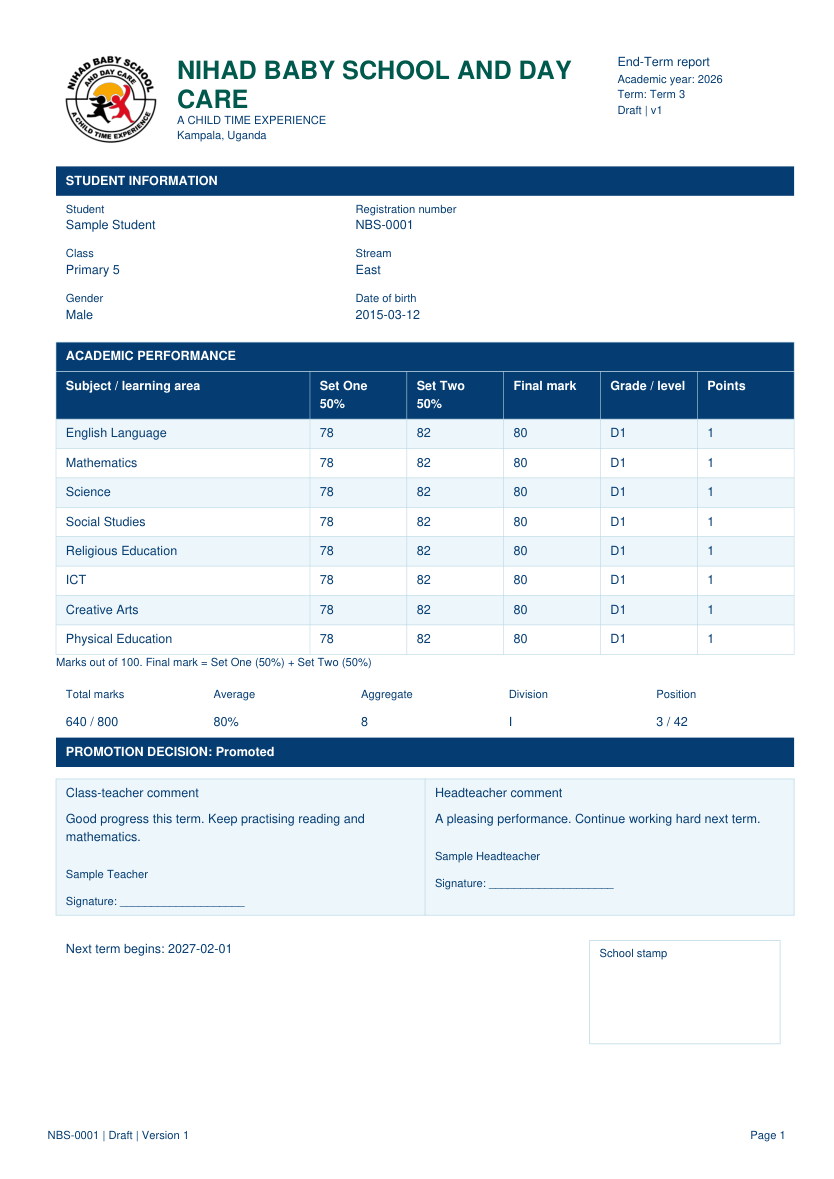
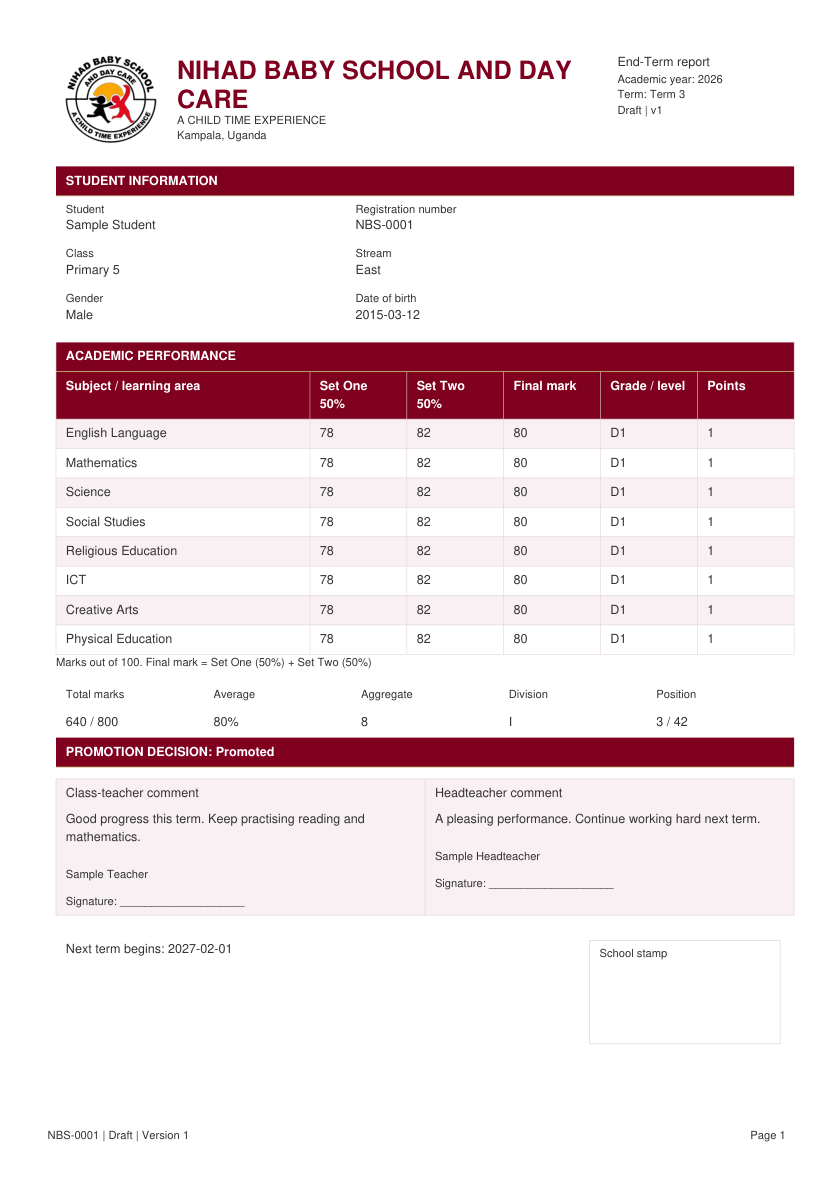
feat: Update End-Term report styling and PDF attributes; apply new color palette

diff --git a/static/css/app.css b/static/css/app.css
@@ -309,46 +309,46 @@ main:focus { outline: none; }
 }
 
 /* A4 End-Term stationery, shared by screen and browser print. */
-.endterm-report { max-width: 210mm; margin: 0 auto; padding: 8mm; background: #fff; color: #173149; border: 1px solid #cddfe4; border-radius: 10px; font-size: .9rem; }
-.endterm-brand { display: grid; grid-template-columns: 24mm minmax(0, 1fr) 46mm; align-items: center; gap: 4mm; border-bottom: 3px solid #176149; padding-bottom: 5mm; }
+.endterm-report { max-width: 210mm; margin: 0 auto; padding: 8mm; background: #fff; color: #333333; border: 1px solid #e4d4d9; border-radius: 10px; font-size: .9rem; }
+.endterm-brand { display: grid; grid-template-columns: 24mm minmax(0, 1fr) 46mm; align-items: center; gap: 4mm; border-bottom: 3px solid #B89B5E; padding-bottom: 5mm; }
 .endterm-logo { width: 100%; height: 25mm; object-fit: contain; }
 .endterm-school { text-align: center; }
-.endterm-school h2 { font-family: Georgia, serif; color: #12543f; font-size: 1.55rem; line-height: 1.15; margin: 0; }
+.endterm-school h2 { font-family: Georgia, serif; color: #800020; font-size: 1.55rem; line-height: 1.15; margin: 0; }
 .endterm-school p { margin: .35rem 0; font-size: .75rem; overflow-wrap: anywhere; }
-.endterm-motto { color: #173149; font-style: italic; }
-.endterm-period { background: #eff7f6; border: 1px solid #cddfe4; border-radius: 5px; overflow: hidden; font-size: .72rem; }
-.endterm-period h3 { background: #12543f; color: #fff; padding: .55rem; margin: 0; text-transform: uppercase; font-size: .8rem; }
+.endterm-motto { color: #333333; font-style: italic; }
+.endterm-period { background: #F8F1F3; border: 1px solid #e4d4d9; border-radius: 5px; overflow: hidden; font-size: .72rem; }
+.endterm-period h3 { background: #800020; color: #fff; padding: .55rem; margin: 0; text-transform: uppercase; font-size: .8rem; }
 .endterm-period p { margin: .45rem .55rem; }
-.endterm-student-panel, .endterm-academics { border: 1px solid #c2dce7; border-radius: 6px; overflow: hidden; margin-top: 4mm; }
-.endterm-section-heading { padding: .5rem .7rem; background: #12543f; color: #fff; font-size: .95rem; margin: 0; text-transform: uppercase; }
-.endterm-student-panel .endterm-section-heading { background: #eaf5fa; color: #193c5c; }
+.endterm-student-panel, .endterm-academics { border: 1px solid #e4d4d9; border-radius: 6px; overflow: hidden; margin-top: 4mm; }
+.endterm-section-heading { padding: .5rem .7rem; background: #800020; color: #fff; font-size: .95rem; margin: 0; text-transform: uppercase; }
+.endterm-student-panel .endterm-section-heading { background: #F8F1F3; color: #800020; }
 .endterm-student-content { display: flex; align-items: center; gap: 4mm; padding: 3mm; }
 .endterm-photo { width: 25mm; height: 30mm; border-radius: 4px; object-fit: cover; }
 .endterm-student-grid { flex: 1; display: grid; grid-template-columns: repeat(2, minmax(0, 1fr)); gap: 3mm; margin: 0; }
-.endterm-student-grid dt { font-size: .7rem; color: #52635e; }
+.endterm-student-grid dt { font-size: .7rem; color: #666666; }
 .endterm-student-grid dd { margin: .1rem 0 0; font-weight: 600; overflow-wrap: anywhere; }
 .endterm-marks { width: 100%; margin: 0; border-collapse: collapse; font-size: .8rem; }
 .endterm-marks caption { font-size: .7rem; padding: 2mm; }
-.endterm-marks th, .endterm-marks td { border: 1px solid #d9e8ef; padding: 2.2mm; text-align: center; }
+.endterm-marks th, .endterm-marks td { border: 1px solid #e4d4d9; padding: 2.2mm; text-align: center; }
 .endterm-marks th:first-child { text-align: left; }
-.endterm-marks thead th { background: #eaf5fa; }
+.endterm-marks thead th { background: #800020; color: #fff; }
 .endterm-marks thead small { display: block; }
-.endterm-marks tbody tr:nth-child(even) { background: #f5fafc; }
-.endterm-grade { background: #e8f4ec; border-radius: 3px; padding: .2rem .4rem; color: #12543f; font-weight: 700; }
-.endterm-calculation { text-align: center; font-size: .75rem; padding: 2mm; margin: 0; background: #edf7fa; }
-.endterm-summary { display: flex; flex-wrap: wrap; margin: 2mm; border: 1px solid #c2dce7; border-radius: 4px; }
-.endterm-summary > div { flex: 1; min-width: 24mm; padding: 3mm 2mm; text-align: center; background: #f1f8fb; }
+.endterm-marks tbody tr:nth-child(even) { background: #F8F1F3; }
+.endterm-grade { background: #F8F1F3; border-radius: 3px; padding: .2rem .4rem; color: #800020; font-weight: 700; }
+.endterm-calculation { text-align: center; font-size: .75rem; padding: 2mm; margin: 0; background: #F8F1F3; }
+.endterm-summary { display: flex; flex-wrap: wrap; margin: 2mm; border: 1px solid #e4d4d9; border-radius: 4px; }
+.endterm-summary > div { flex: 1; min-width: 24mm; padding: 3mm 2mm; text-align: center; background: #F8F1F3; }
 .endterm-summary dt { font-size: .65rem; text-transform: uppercase; }
 .endterm-summary dd { margin: 1mm 0 0; font-size: 1.15rem; font-weight: 700; }
-.endterm-decision { margin-top: 3mm; background: #12543f; color: #fff; padding: 3mm; text-align: center; border-radius: 4px; text-transform: uppercase; }
+.endterm-decision { margin-top: 3mm; background: #800020; color: #fff; padding: 3mm; text-align: center; border-radius: 4px; text-transform: uppercase; }
 .endterm-comments { display: grid; grid-template-columns: repeat(2, minmax(0, 1fr)); gap: 4mm; margin-top: 4mm; }
-.endterm-comments > div { border: 1px solid #c2dce7; border-radius: 5px; overflow-wrap: anywhere; }
-.endterm-comments h3 { background: #193c5c; color: #fff; font-size: .8rem; padding: 3mm; margin: 0; }
+.endterm-comments > div { border: 1px solid #e4d4d9; border-radius: 5px; overflow-wrap: anywhere; }
+.endterm-comments h3 { background: #800020; color: #fff; font-size: .8rem; padding: 3mm; margin: 0; }
 .endterm-comments p { padding: 0 3mm; font-size: .8rem; }
 .endterm-signoff { margin-top: 5mm; }
 .endterm-signoff p { font-size: .7rem; }
 .endterm-footer { display: flex; justify-content: space-between; align-items: center; gap: 4mm; margin-top: 4mm; font-size: .75rem; }
-.endterm-stamp { border: 1px dashed #91a5b1; color: #52635e; padding: 8mm 5mm; min-width: 50mm; text-align: center; text-transform: uppercase; letter-spacing: 1px; }
+.endterm-stamp { border: 1px dashed #B89B5E; color: #666666; padding: 8mm 5mm; min-width: 50mm; text-align: center; text-transform: uppercase; letter-spacing: 1px; }
 @media screen and (max-width: 720px) {
   .endterm-report { padding: 4mm; }
   .endterm-brand { grid-template-columns: 20mm minmax(0, 1fr); }

diff --git a/templates/base.html b/templates/base.html
@@ -10,7 +10,7 @@
   <title>{% block title %}Workspace{% endblock %} · {{ school_display_name }}</title>
   <link rel="icon" href="{% static 'img/nihad-logo.png' %}" type="image/png">
   <link rel="stylesheet" href="{% static 'vendor/oat/oat.min.css' %}">
-  <link rel="stylesheet" href="{% static 'css/app.css' %}?v=endterm-report-1">
+  <link rel="stylesheet" href="{% static 'css/app.css' %}?v=endterm-burgundy-1">
   <script src="{% static 'vendor/oat/oat.min.js' %}" defer></script>
   <script src="{% static 'vendor/htmx/htmx.min.js' %}" defer></script>
   <script src="{% static 'js/app.js' %}?v=login-logo-6" defer></script>

diff --git a/apps/reports/endterm_pdf.py b/apps/reports/endterm_pdf.py
@@ -15,10 +15,10 @@ def endterm_pdf(report):
     data = report.snapshot
     output = BytesIO()
     width = 186 * mm
-    green, navy, pale, line = [colors.HexColor(c) for c in ('#005a4e', '#063e72', '#edf7fc', '#b9d9e7')]
-    body = ParagraphStyle('Report', fontName='Helvetica', fontSize=9, leading=13, textColor=navy)
+    burgundy, charcoal, pale, line, gold = [colors.HexColor(c) for c in ('#800020', '#333333', '#F8F1F3', '#e4d4d9', '#B89B5E')]
+    body = ParagraphStyle('Report', fontName='Helvetica', fontSize=9, leading=13, textColor=charcoal)
     small = ParagraphStyle('Small', parent=body, fontSize=8, leading=11)
-    title = ParagraphStyle('School', parent=body, fontName='Helvetica-Bold', fontSize=18, leading=21, textColor=green)
+    title = ParagraphStyle('School', parent=body, fontName='Helvetica-Bold', fontSize=18, leading=21, textColor=burgundy)
     heading = ParagraphStyle('Heading', parent=body, fontName='Helvetica-Bold', textColor=colors.white)
 
     def p(value, style=body):
@@ -30,14 +30,14 @@ def endterm_pdf(report):
                  ('RIGHTPADDING', (0, 0), (-1, -1), 7), ('TOPPADDING', (0, 0), (-1, -1), 4),
                  ('BOTTOMPADDING', (0, 0), (-1, -1), 4)]
         if header:
-            rules += [('BACKGROUND', (0, 0), (-1, 0), navy), ('GRID', (0, 0), (-1, -1), .4, line),
+            rules += [('BACKGROUND', (0, 0), (-1, 0), burgundy), ('GRID', (0, 0), (-1, -1), .4, line),
                       ('ROWBACKGROUNDS', (0, 1), (-1, -1), [colors.white, pale])]
         result.setStyle(TableStyle(rules))
         return result
 
     def section(text):
         result = table([[p(text, heading)]], [width])
-        result.setStyle(TableStyle([('BACKGROUND', (0, 0), (-1, -1), navy)]))
+        result.setStyle(TableStyle([('BACKGROUND', (0, 0), (-1, -1), burgundy), ('LINEBELOW', (0,0),(-1,-1),.6,gold)]))
         result.keepWithNext = True
         return result
 
@@ -77,7 +77,7 @@ def endterm_pdf(report):
         values += [row.get('grade')] + ([row.get('points')] if points else [])
         rows.append([p(value) for value in values])
     marks_table = table(rows, [64*mm] + [(width-64*mm)/(len(columns)-1)]*(len(columns)-1), header=True, repeatRows=2)
-    marks_table.setStyle(TableStyle([('SPAN', (0,0),(-1,0)), ('BACKGROUND',(0,1),(-1,1),navy)]))
+    marks_table.setStyle(TableStyle([('SPAN', (0,0),(-1,0)), ('LINEBELOW',(0,0),(-1,0),.6,gold), ('BACKGROUND',(0,1),(-1,1),burgundy)]))
     story.append(marks_table)
     if numeric:
         story.append(p('Marks out of ' + report_number(data['maximum_score']) + ('. Final mark = ' + ' + '.join(f"{s['name']} ({report_number(s['weight'])}%)" for s in sets) if sets else ''), small))
@@ -111,7 +111,7 @@ def endterm_pdf(report):
     def footer(canvas, doc):
         canvas.saveState()
         canvas.setFont('Helvetica', 8)
-        canvas.setFillColor(navy)
+        canvas.setFillColor(charcoal)
         canvas.drawString(12*mm, 10*mm, f"{data['registration_number']} | {report.get_status_display()} | Version {report.version}")
         canvas.drawRightString(198*mm, 10*mm, f'Page {doc.page}')
         canvas.restoreState()

diff --git a/DEVELOPMENT_PLAN.md b/DEVELOPMENT_PLAN.md
@@ -544,3 +544,10 @@ explicit payment/charge reversals; its ten targeted tests pass.
 - Visually checked a one-page eight-subject PDF and a multi-page stress report with repeated table headers and lengthy comments. Sample-only previews are in output/pdf; no student data was used. Browser visual review remains a next milestone.
 - Next milestone: review the End-Term layout with school staff using an actual draft report and confirm school contact details and term dates.
 - Final verification: all 289 Django tests pass; Django system, migration-drift and diff checks pass.
+
+## End-Term burgundy school palette
+
+- Applied burgundy and white with charcoal text, soft blush surfaces and restrained gold accents to End-Term HTML, browser print and PDF output.
+- Refreshed the sample PDF and image; visually verified the one-page layout. Added a PDF binary Git attribute to prevent line-ending conversion of report artifacts.
+- Next milestone: school review of the updated palette in the browser and a printed draft.
+- Verification: all 289 Django tests pass; system and migration checks pass; refreshed PDF visually checked.
